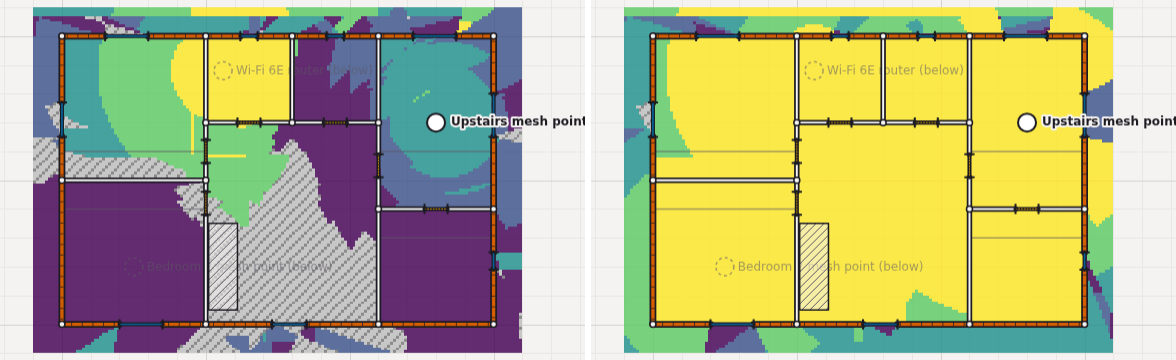
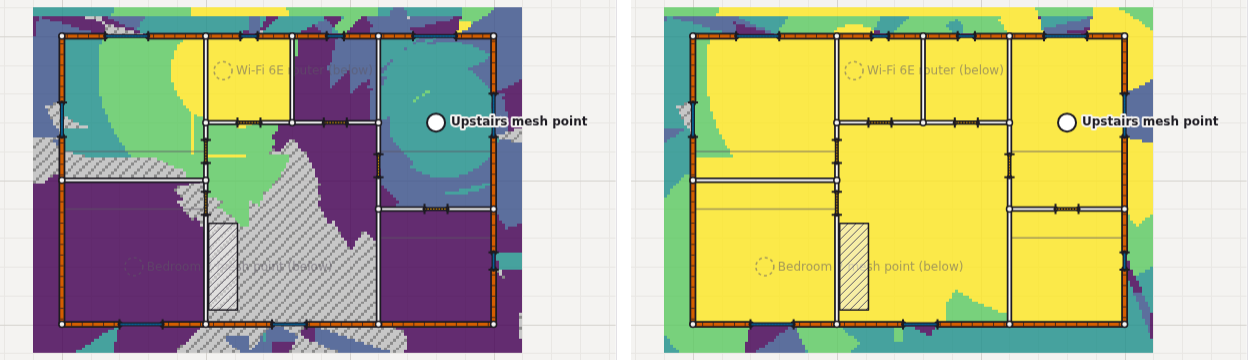
docs: fill the write-up's placeholders and uncrop the channels label (D96)
The opening keeps the suggested sentence, the real-home results section
says there are none yet, and feedback goes to a GitHub issue. The
channels figure is 40 px wider so "Upstairs mesh point" isn't clipped.

Claude-Session: https://claude.ai/code/session_01UpkMFwBWyWezQTB4zE9xtk

Changed region(s): [[0.0306, 0.0, 0.4898, 1.0], [0.5204, 0.0, 1.0, 1.0], [0.0, 0.0611, 0.0306, 0.0917]]

diff --git a/docs/DECISIONS.md b/docs/DECISIONS.md
@@ -760,6 +760,6 @@ A running log of project decisions, newest last. Each entry records what was dec
 
 ### D96. The write-up — 2026-10-04
 
-- **Decision:** `docs/writeup.md` is one article, about 2,500 words, in the author's first-person voice, on the model (P.2040 layer physics, angle-dependent floors, the validation and its gaps), why not ray tracing, the optimizer and its benchmarks, the channel planner, calibration and scans with their synthetic results, and what it can't do. It has four figures from the built app in `docs/img/writeup-*.png`, made by `scripts/writeup-figures.mjs`, and a footnote for every number, to MODEL.md, this log, a test or the code. Numbers it derives (the gains over the middle, the −43.0 and −69.5 dBm in Figure 1, the 385 m range) are worked in the footnotes. It has three `[AUTHOR: …]` placeholders: why the author built it (with a suggested sentence for them to confirm), the real-home results section, and where to send feedback. Its title is a working one; the Show HN post's title is the author's. The fact-check and review round (2026-10-04) fixed the 8.63 m distance in Figure 1, the phone-speed estimate (which also corrected stale times in MODEL.md, see the changelog), the EIRP, Rhim and first-person claims, added the Ekahau and Hamina sentence for the author to confirm, a downlink-only limit (also in MODEL.md), and dropped the 3D figure. Part of #161.
+- **Decision:** `docs/writeup.md` is one article, about 2,500 words, in the author's first-person voice, on the model (P.2040 layer physics, angle-dependent floors, the validation and its gaps), why not ray tracing, the optimizer and its benchmarks, the channel planner, calibration and scans with their synthetic results, and what it can't do. It has four figures from the built app in `docs/img/writeup-*.png`, made by `scripts/writeup-figures.mjs`, and a footnote for every number, to MODEL.md, this log, a test or the code. Numbers it derives (the gains over the middle, the −43.0 and −69.5 dBm in Figure 1, the 385 m range) are worked in the footnotes. The author filled its three placeholders before merge: the opening sentence on why they built it, a real-home results section that says there are none yet, and feedback by GitHub issue. Its title is a working one; the Show HN post's title is the author's. The fact-check and review round (2026-10-04) fixed the 8.63 m distance in Figure 1, the phone-speed estimate (which also corrected stale times in MODEL.md, see the changelog), the EIRP, Rhim and first-person claims, added the Ekahau and Hamina sentence for the author to confirm, a downlink-only limit (also in MODEL.md), and dropped the 3D figure. Part of #161.
 - **Why:** your choices (2026-10-04): first person, a builder's write-up, with no invented personal facts and at most three placeholders; report the synthetic-home and published-measurement results honestly, say plainly that no real home has been surveyed or scanned (#132, #144), and leave a marked section for those; about 2,500 words, technical, for Hacker News readers comfortable with dB, with no hype, no exclamation marks and British spelling. The synthetic results are called what they are: readings from the model itself, which show the fitting works, not that real homes match.
 - **Revisit if:** #132 or #144 produce real-home results (fill the marked section and revise the claims around it); a number in MODEL.md changes (the article quotes it, and no test ties them); the author edits the voice or length.

diff --git a/docs/writeup.md b/docs/writeup.md
@@ -1,6 +1,6 @@
 # Predicting home Wi-Fi from a floor plan, and how far to trust it
 
-[AUTHOR: why you built this; e.g. "I wanted to know where to put a router, and how many access points a house needs, without a survey kit."]
+I wanted to know where to put a router, and how many access points a house needs, without a survey kit.
 
 A survey needs the access points already installed, so it can't tell you what to buy. Professional tools such as Ekahau and Hamina do predictive planning, but they're built for enterprise Wi-Fi engineers. SignalPlan puts the same kind of model in reach of a house, with the physics written down where you can check it: a free, open-source browser app ([signalplan.pages.dev](https://signalplan.pages.dev), MIT) where you draw the plan to scale, see the predicted signal everywhere, and let an optimizer search for placements. No account, and plans stay on your device.
 
@@ -97,9 +97,7 @@ _Figure 4. The surveyed test bungalow on 5 GHz; each pin is predicted minus meas
 
 ## Real-home results
 
-> [AUTHOR: real-home results go here once #132 and #144 are done]
-
-Until then, read every accuracy figure above as agreement with lab data and with the model itself. Real scan captures and a scan of an actual home are still to do[^real].
+None yet: the real-home checks, #132 and #144, are still open. Until then, read every accuracy figure above as agreement with lab data and with the model itself. Real scan captures and a scan of an actual home are still to do[^real].
 
 ## What it can't do
 
@@ -112,7 +110,7 @@ Until then, read every accuracy figure above as agreement with lab data and with
 
 ## What's next
 
-The real-home checks decide whether any of this holds in a house, and that's where I'd most like help. If you have a survey of your own home (Ekahau, NetSpot, or just a phone and a notebook), and a floor plan, I'd love to compare. [AUTHOR: where to send it / what feedback you want.] Try it at [signalplan.pages.dev](https://signalplan.pages.dev). If you want the equations, `docs/MODEL.md` has each one with its source, and `docs/DECISIONS.md` has the reasoning behind each choice.
+The real-home checks decide whether any of this holds in a house, and that's where I'd most like help. If you have a survey of your own home (Ekahau, NetSpot, or just a phone and a notebook), and a floor plan, I'd love to compare: [open an issue](https://github.com/NC4321/SignalPlan/issues) with the plan and your readings, or with anything in the model you think is wrong. Try it at [signalplan.pages.dev](https://signalplan.pages.dev). If you want the equations, `docs/MODEL.md` has each one with its source, and `docs/DECISIONS.md` has the reasoning behind each choice.
 
 _Figures are regenerated by scripts/writeup-figures.mjs._
 
